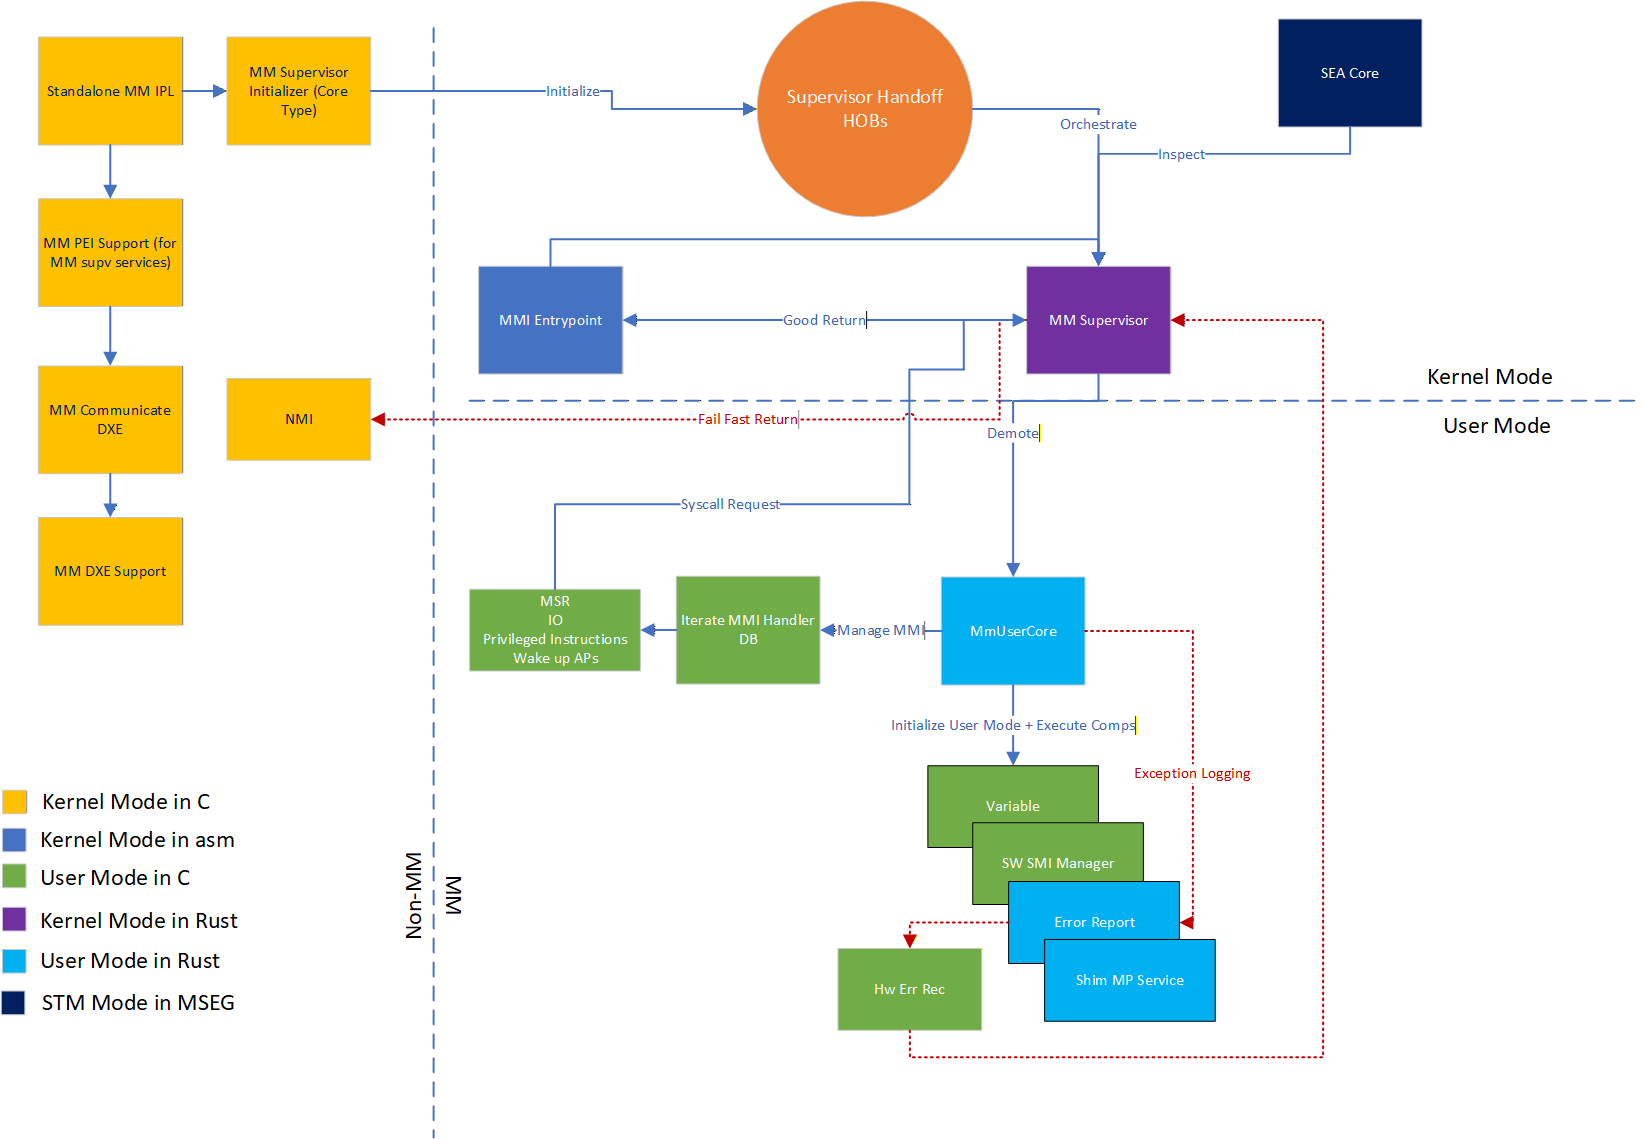
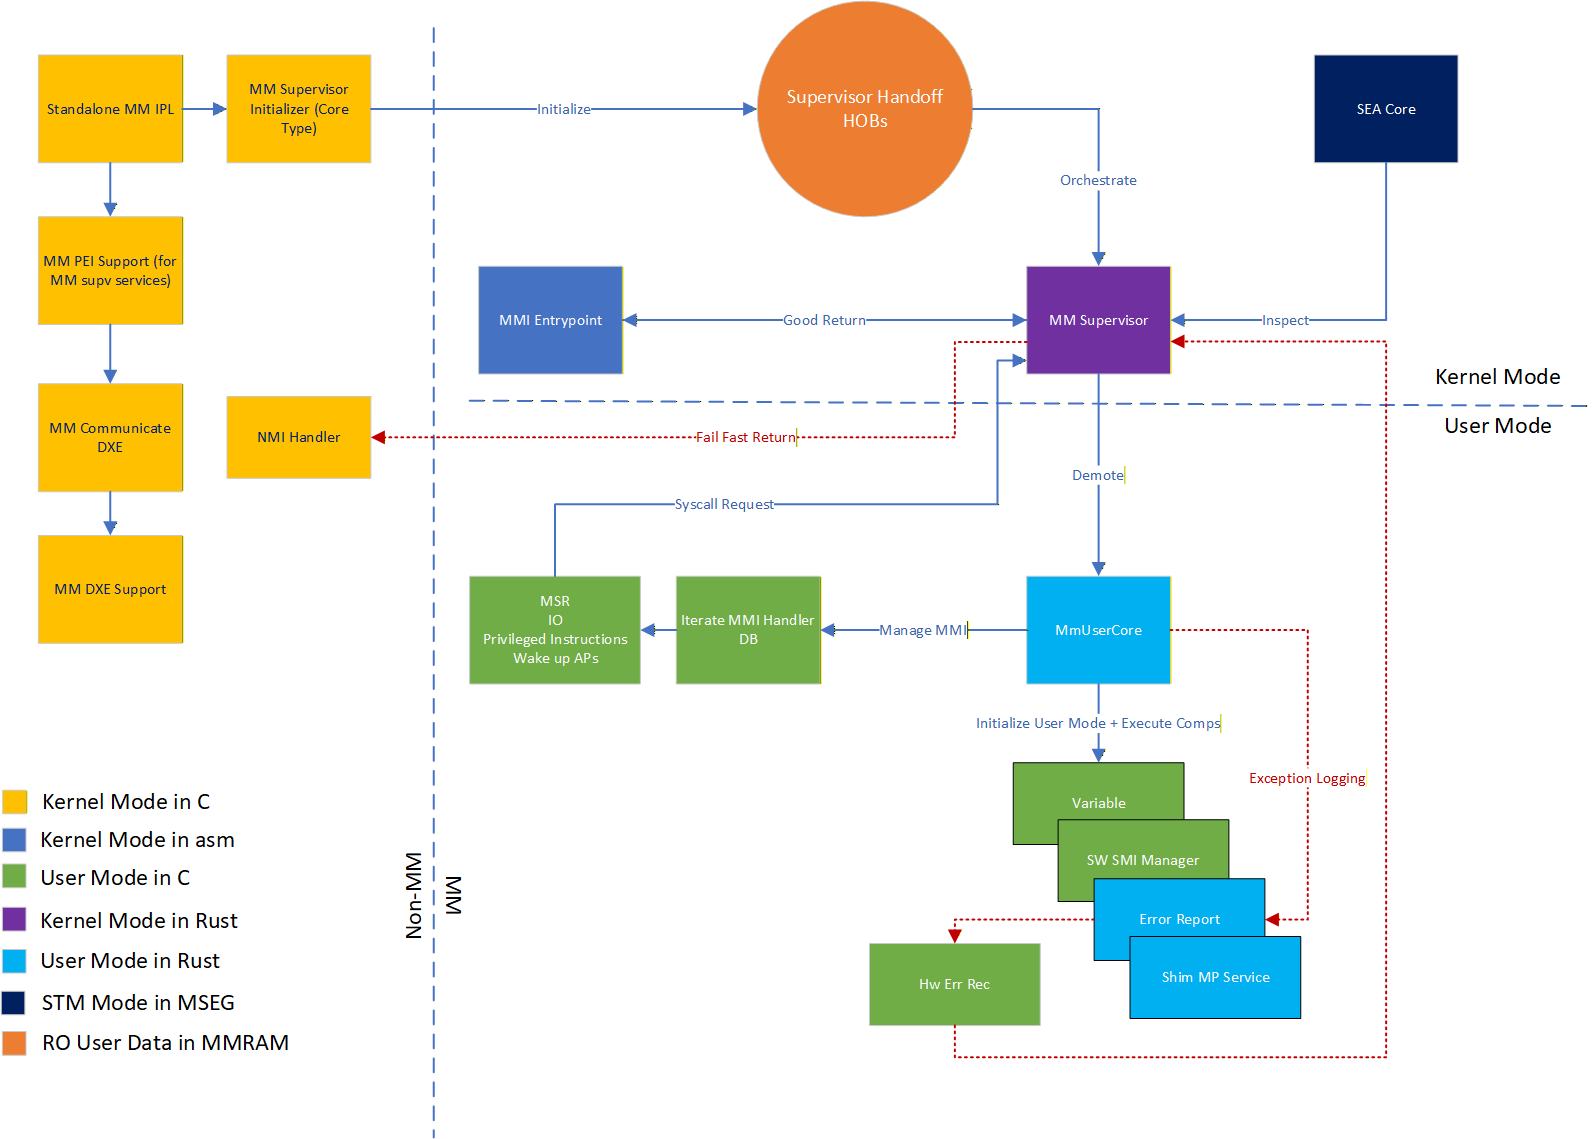
rfc feedback update 2

diff --git a/docs/src/rfc/text/0000-mm-supv.md b/docs/src/rfc/text/0000-mm-supv.md
@@ -184,6 +184,7 @@ Rust MM supervisor.
 | EFI_HOB_TYPE_GUID_EXTENSION | To describe the MM communication buffer for supervisor mode and user mode. Under the name of [`gMmCommonRegionHobGuid`](https://github.com/microsoft/mu_feature_mm_supv/blob/main/MmSupervisorPkg/Include/Guid/MmCommonRegion.h) for user mode. |
 | EFI_HOB_TYPE_GUID_EXTENSION | To describe the MM stack buffer for all processors and both supervisor and user modes. Under the name of [`gMmSupvUnblockRegionHobGuid`](https://github.com/microsoft/mu_feature_mm_supv/blob/main/MmSupervisorPkg/Include/Guid/MmSupvUnblockRegion.h). |
 | EFI_HOB_TYPE_RESOURCE_DESCRIPTOR | To describe the MMIO memory resources for MM usage. This could include UART, APIC, and PCIe regions. |
+| EFI_HOB_TYPE_RESOURCE_DESCRIPTOR_V2 | The usage will be the same as EFI_HOB_TYPE_RESOURCE_DESCRIPTOR, but the attributes will not be honored for security purpose. |
 
 - The following HOBs will be required for bootstrapping the Rust MM supervisor:
 
@@ -505,8 +506,9 @@ processors during the mm_init phase.
 Upon invocation of each MMI, Rust MM supervisor will rendezvous all processors to ensure proper synchronization before
 handling the MMI.
 
-After rendezvous, the Rust MM supervisor will perform necessary BSP elections and put the APs into the holding pen, and
-wait for the BSP to complete the MMI handling before releasing the APs back to normal execution.
+After rendezvous, the Rust MM supervisor inspects the APIC ID of each incoming processor. The supervisor designates the
+register-confirmed processor as the BSP and places remaining processors (APs) into a holding pen. The BSP completes MMI
+handling while APs remain idle, then the supervisor releases the APs to resume normal execution.
 
 Should either the MMI handlers need to send signals to all processors to perform certain operations, or the BSP that handles
 the MMI needs to write to the command buffer with provided function pointer and arguments for APs to execute, the Rust MM
@@ -523,9 +525,14 @@ security policies.
 #### Supervisor Patina Components
 
 Sticking to the same sensation of componentization as the existing Patina implementation for DXE environment, the Rust MM
-supervisor will also support extensible components through the Patina component model. The components will be linked in
-the supervisor mode during build time and no dynamic loading will be supported for supervisor mode components to minimize
-the attack surface and simplify the implementation.
+supervisor will also support extra static components through during linking process. The components will be linked in the
+supervisor mode during build time and no dynamic loading will be supported for supervisor mode components to minimize the
+attack surface and simplify the implementation.
+
+The pristine Patina component will not be supported from the supervisor level because this is to avoid pulling in unnecessary
+allocator logic that could potentially expand the attack surfaces.
+
+The [user level core](#mm-rust-user-core-in-rust), on the other hand, will support native Patina compononent.
 
 #### Supervisor Handlers
 
